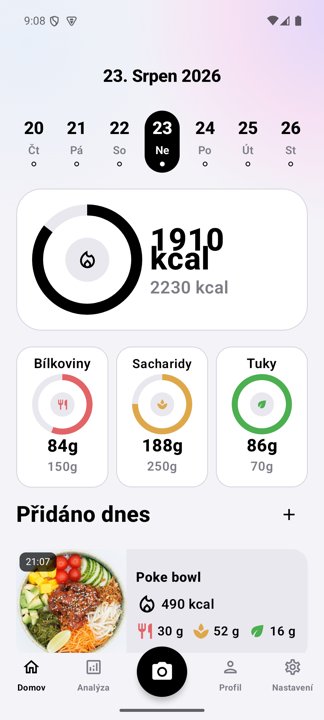
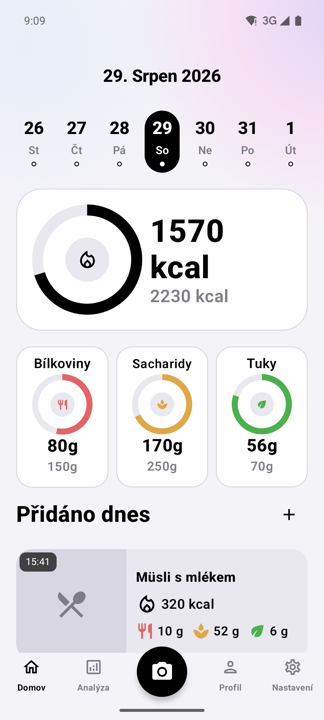
Fix cramped calorie-ring number/unit spacing on Home
The hero "${currentCalories} kcal" Text on the Home calorie ring had no
explicit lineHeight, so when it wrapped onto two lines (e.g. "1910" /
"kcal") it inherited Material3's default line height, sized for ~16sp
body text rather than the 28-40sp hero font. Wrapped lines overlapped
with no visible gap instead of spacing out.

Retook the home.png marketing screenshots (en + cs) against the fix,
verified on the kalky_pixel emulator with a wrapped 4-digit total.

diff --git a/shared/src/commonMain/kotlin/cz/krokviak/kalky/scenes/home/components/CalorieCard.kt b/shared/src/commonMain/kotlin/cz/krokviak/kalky/scenes/home/components/CalorieCard.kt
@@ -19,6 +19,7 @@ import androidx.compose.ui.Alignment
 import androidx.compose.ui.Modifier
 import androidx.compose.ui.text.font.FontWeight
 import androidx.compose.ui.unit.dp
+import androidx.compose.ui.unit.sp
 import cz.krokviak.kalky.core.theme.AppTheme
 import cz.krokviak.kalky.core.ui.LocalDimensions
 import cz.krokviak.kalky.core.ui.components.KalkyCard
@@ -59,6 +60,7 @@ fun CalorieCard(
                 Text(
                     text = "${currentCalories} kcal",
                     fontSize = dims.fontHero,
+                    lineHeight = (dims.fontHero.value * 1.15f).sp,
                     fontWeight = FontWeight.ExtraBold,
                     color = AppTheme.colors.onBackground
                 )
